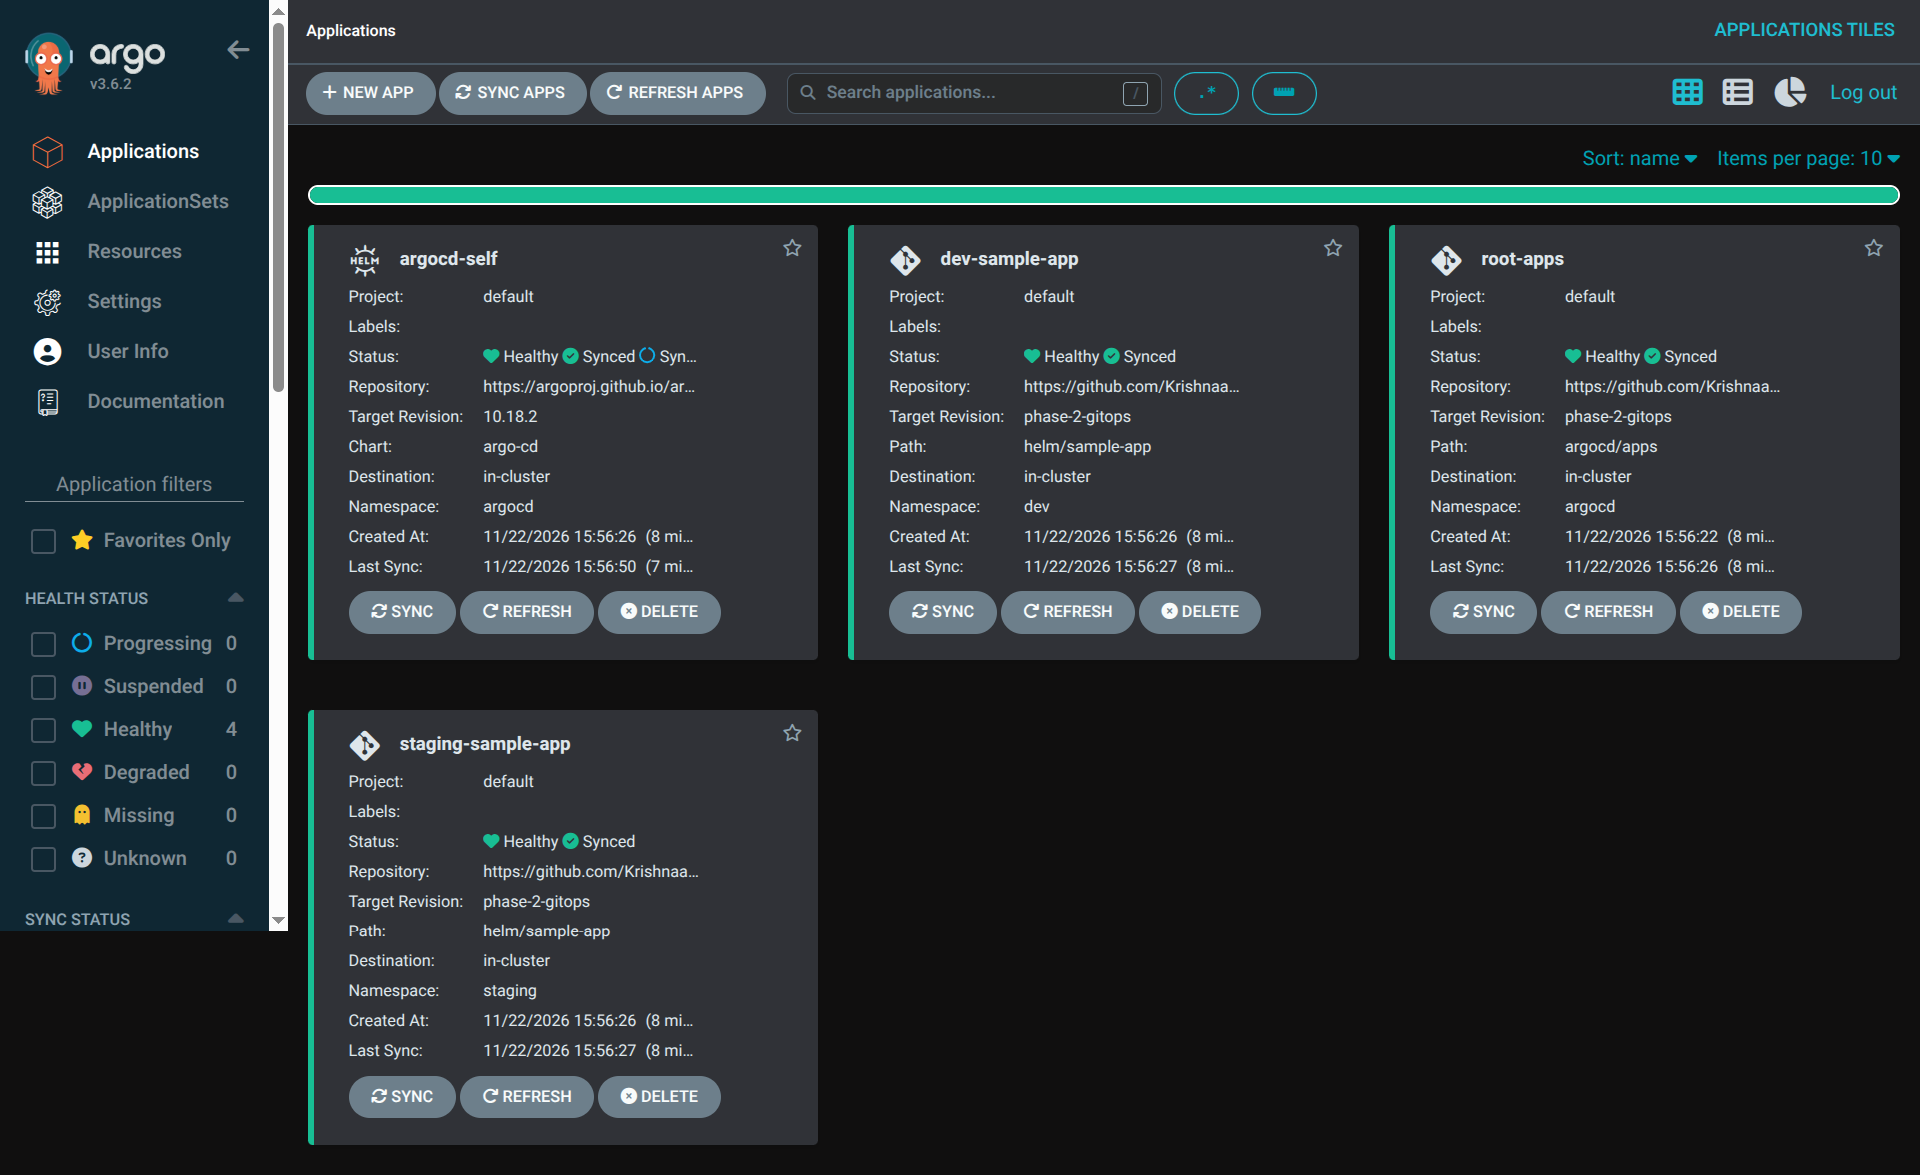
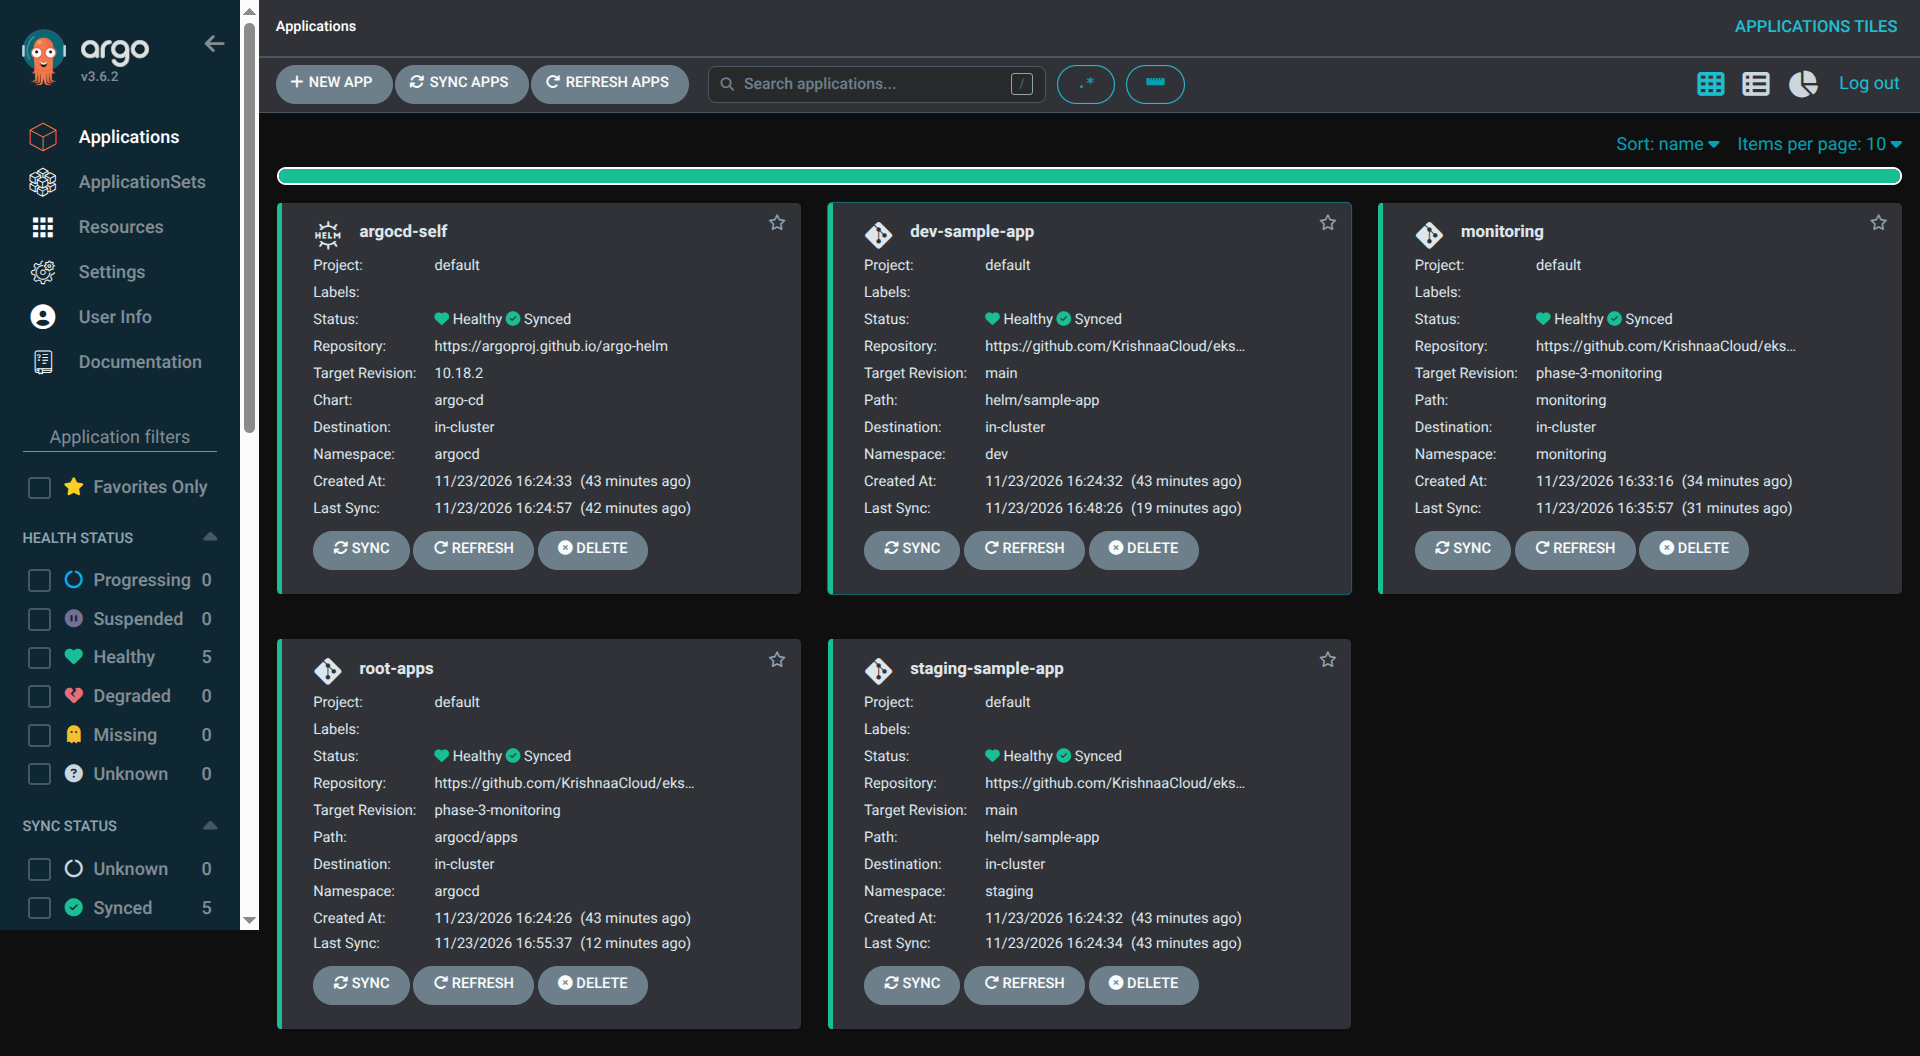
docs: add Phase 3 screenshots for Grafana dashboard, firing alert, ArgoCD overview, and pod list

diff --git a/README.md b/README.md
@@ -8,11 +8,17 @@ My primary production background is operating AWS ECS at scale across mission-cr
 
 ## Screenshots
 
-![ArgoCD Applications Overview](docs/images/argocd-applications.png)
-*ArgoCD showing all four applications (argocd-self, dev-sample-app, root-apps, and staging-sample-app) Synced and Healthy after the Phase 2 bootstrap.*
+![Sample App SLO Dashboard](docs/images/grafana-slo-dashboard.png)
+*Grafana dashboard showing 100% availability and latency SLIs, multi-window burn rates, and active synthetic probe health.*
 
-![ArgoCD dev-sample-app Resource Tree](docs/images/argocd-dev-sample-app-tree.png)
-*Resource tree for dev-sample-app showing Healthy and Synced status across Service, Deployment, ReplicaSet, and Pod components.*
+![Grafana Alerting Multi-Window Burn Rate](docs/images/grafana-firing-alert.png)
+*Grafana Alerting showing SampleAppAvailabilityFastBurn and SampleAppAvailabilitySlowBurn firing during the alert validation test.*
+
+![ArgoCD Applications Overview](docs/images/argocd-applications.png)
+*ArgoCD showing all five applications (argocd-self, dev-sample-app, monitoring, root-apps, and staging-sample-app) Synced and Healthy.*
+
+![Cluster Pods Overview](docs/images/kubectl-get-pods.png)
+*Terminal output showing all 37 pods Running across 6 namespaces after the Phase 3 bootstrap.*
 
 ## Measured Results
 
@@ -130,7 +136,10 @@ flowchart TB
 │   │   └── phase-3-verification.md
 │   ├── images/                 # Platform UI screenshots
 │   │   ├── argocd-applications.png
-│   │   └── argocd-dev-sample-app-tree.png
+│   │   ├── argocd-dev-sample-app-tree.png
+│   │   ├── grafana-firing-alert.png
+│   │   ├── grafana-slo-dashboard.png
+│   │   └── kubectl-get-pods.png
 │   ├── cost.md                 # Architecture cost model
 │   └── slo.md                  # SLO specifications, burn rate math, drill results
 ├── helm/
